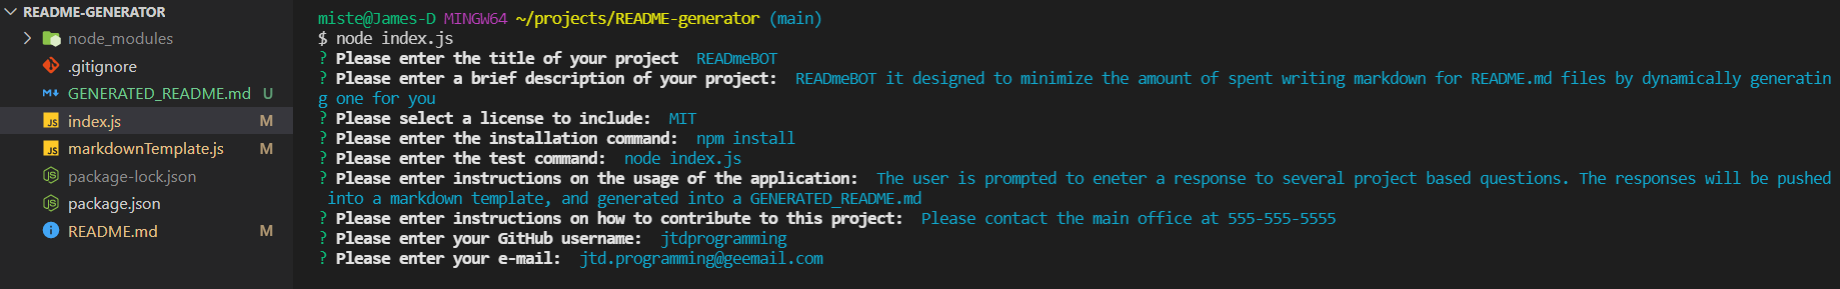
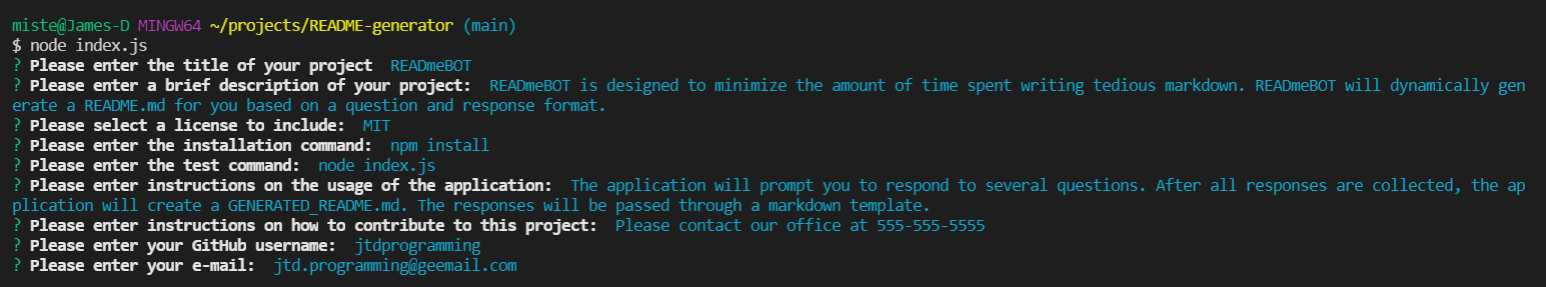
screencaps added to demo functionality

Changed region(s): [[0.0, 0.0279, 1.0, 0.9756]]

diff --git a/README.md b/README.md
@@ -1,7 +1,8 @@
 # The README.md Generator
 Project repository: [README-generator](https://github.com/jtdprogramming/README-generator)
+
+Video Demo: [DEMO](https://watch.screencastify.com/v/yH0pNDqNMLrdP3hLh3zD)
 <!-- screencap of a sample generated readme here -->
-Screenshot Coming Soon!
 * * *
 
 ## Purpose
